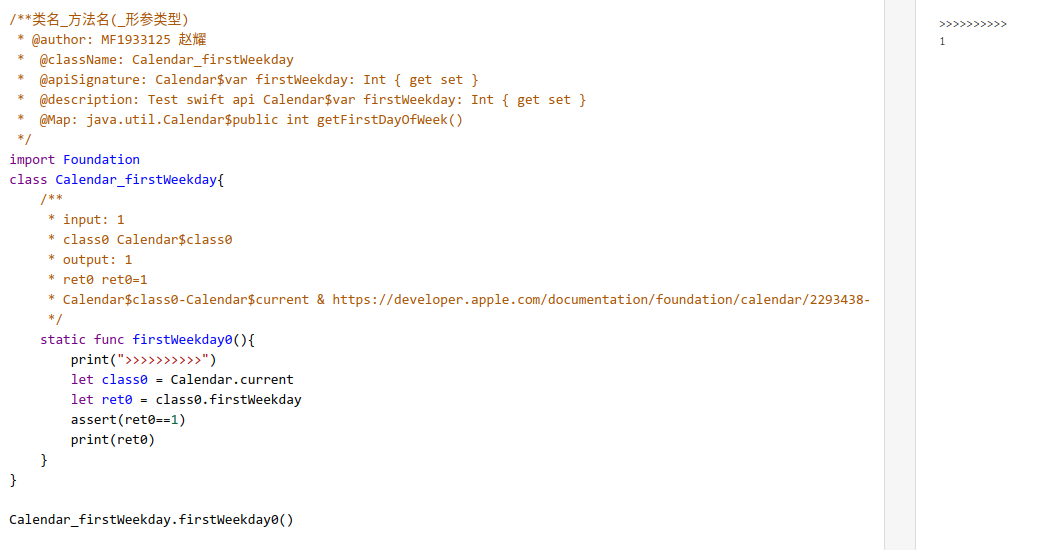
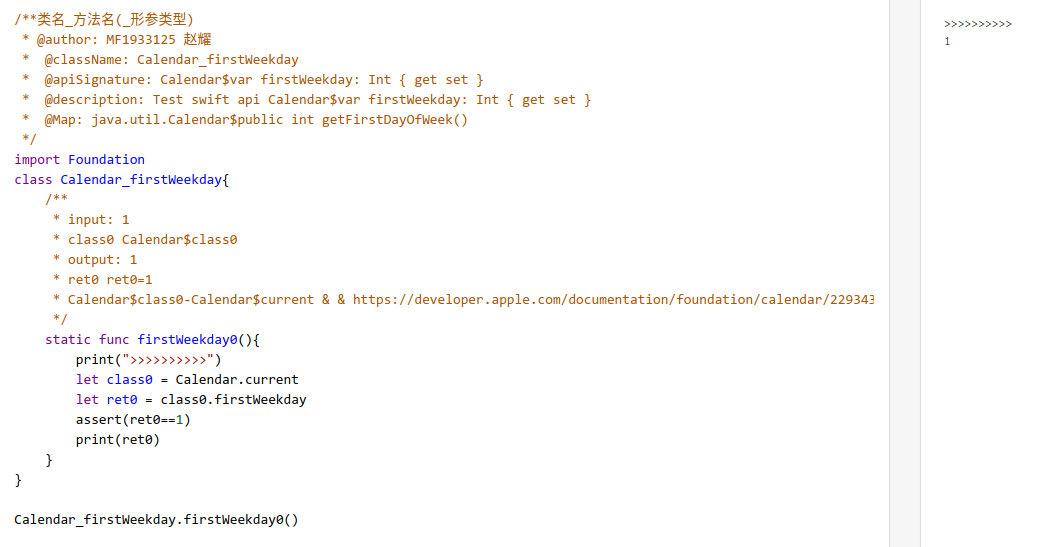
update files

diff --git a/MF1933125/swift/Dictionary_subscript_Key_function.swift b/MF1933125/swift/Dictionary_subscript_Key_function.swift
@@ -19,7 +19,7 @@ class Dictionary_subscript_Key_function{
     static func subscript0(){
         print(">>>>>>>>>>")
         var class0 = Dictionary<String, Int>()
-		class0.updateValue(1, forKey: "key1")
+        class0.updateValue(1, forKey: "key1")
         let key = "key1"
         let ret0 = class0[key, default:  {() -> Int in return 0}()]
         assert(key=="key1")
@@ -39,7 +39,7 @@ class Dictionary_subscript_Key_function{
     static func subscript1(){
         print(">>>>>>>>>>")
         var class0 = Dictionary<String, Int>()
-		class0.updateValue(1, forKey: "key1")
+        class0.updateValue(1, forKey: "key1")
         let key = "key0"
         let ret0 = class0[key, default: {() -> Int in return 0}()]
         assert(key=="key0")

diff --git a/MF1933125/swift/Calendar_firstWeekday.swift b/MF1933125/swift/Calendar_firstWeekday.swift
@@ -12,7 +12,7 @@ class Calendar_firstWeekday{
      * class0 Calendar$class0
      * output: 1
      * ret0 ret0=1
-     * Calendar$class0-Calendar$current & https://developer.apple.com/documentation/foundation/calendar/2293438-current
+     * Calendar$class0-Calendar$current & & https://developer.apple.com/documentation/foundation/calendar/2293438-current
      */
     static func firstWeekday0(){
         print(">>>>>>>>>>")

diff --git a/MF1933125/swift/Slice_insert_Collection_Int.swift b/MF1933125/swift/Slice_insert_Collection_Int.swift
@@ -13,7 +13,7 @@ class Slice_insert_Collection_Base$Index{
      * contentsOf contentsOf=[4, 5]
      * at Base.Index$at
      * output: 0
-	 * Base.Index$at-Slice$endIndex & https://developer.apple.com/documentation/swift/slice/1538651-endindex
+	 * Base.Index$at-Slice$endIndex & & https://developer.apple.com/documentation/swift/slice/1538651-endindex
      */
     static func insert0() {
         print(">>>>>>>>>>>>")

diff --git a/MF1933125/java/ArrayList_addAll_Collection.java b/MF1933125/java/ArrayList_addAll_Collection.java
@@ -21,7 +21,7 @@ public class ArrayList_addAll_Collection {
      * output: 1
      * ret0  ret0=true
      * ArrayList$class0-ArrayList$ArrayList(Collection c);Arrays$asList(T... a) & c=Arrays.asList(a); a=1,2 & https://docs.oracle.com/javase/8/docs/api/java/util/LinkedList.html
-     * ArrayList$c-Arrays$asList(T... a) & c=Arrays.asList(a); a=2,3 & https://docs.oracle.com/javase/8/docs/api/java/util/Arrays.html#asList-T...-
+     * ArrayList$c-Arrays$asList(T... a) & a=2,3 & https://docs.oracle.com/javase/8/docs/api/java/util/Arrays.html#asList-T...-
      */
     public static void addAll0(){
         System.out.println(">>>>>>>>>>>>");
